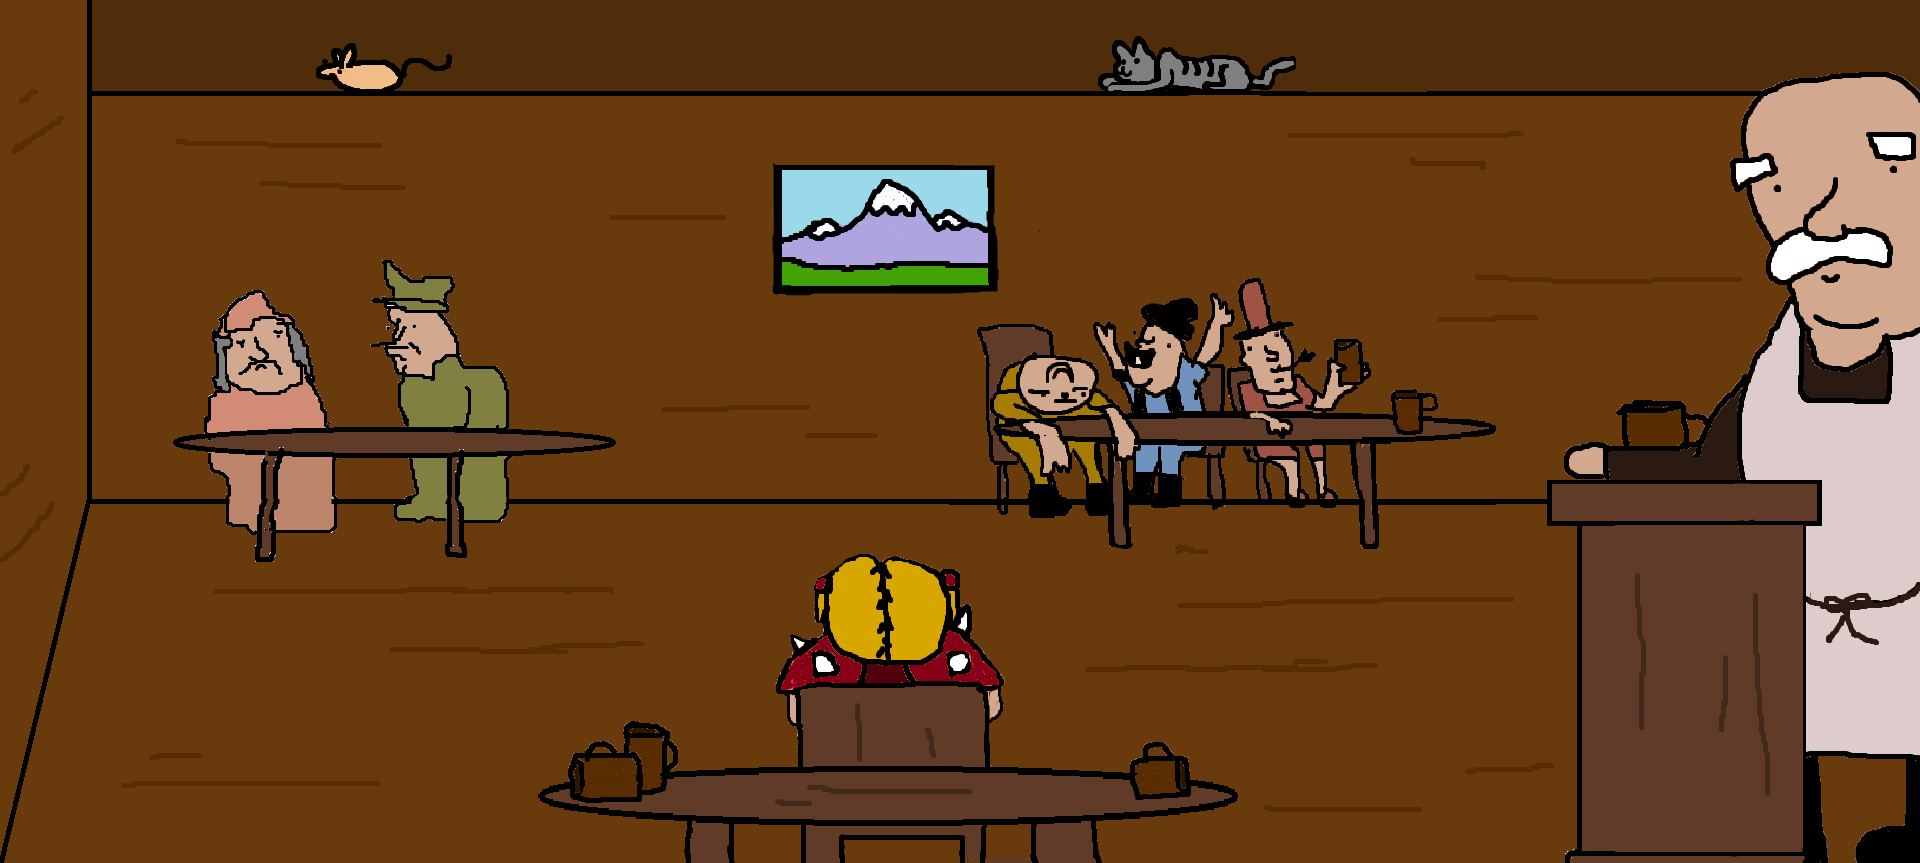
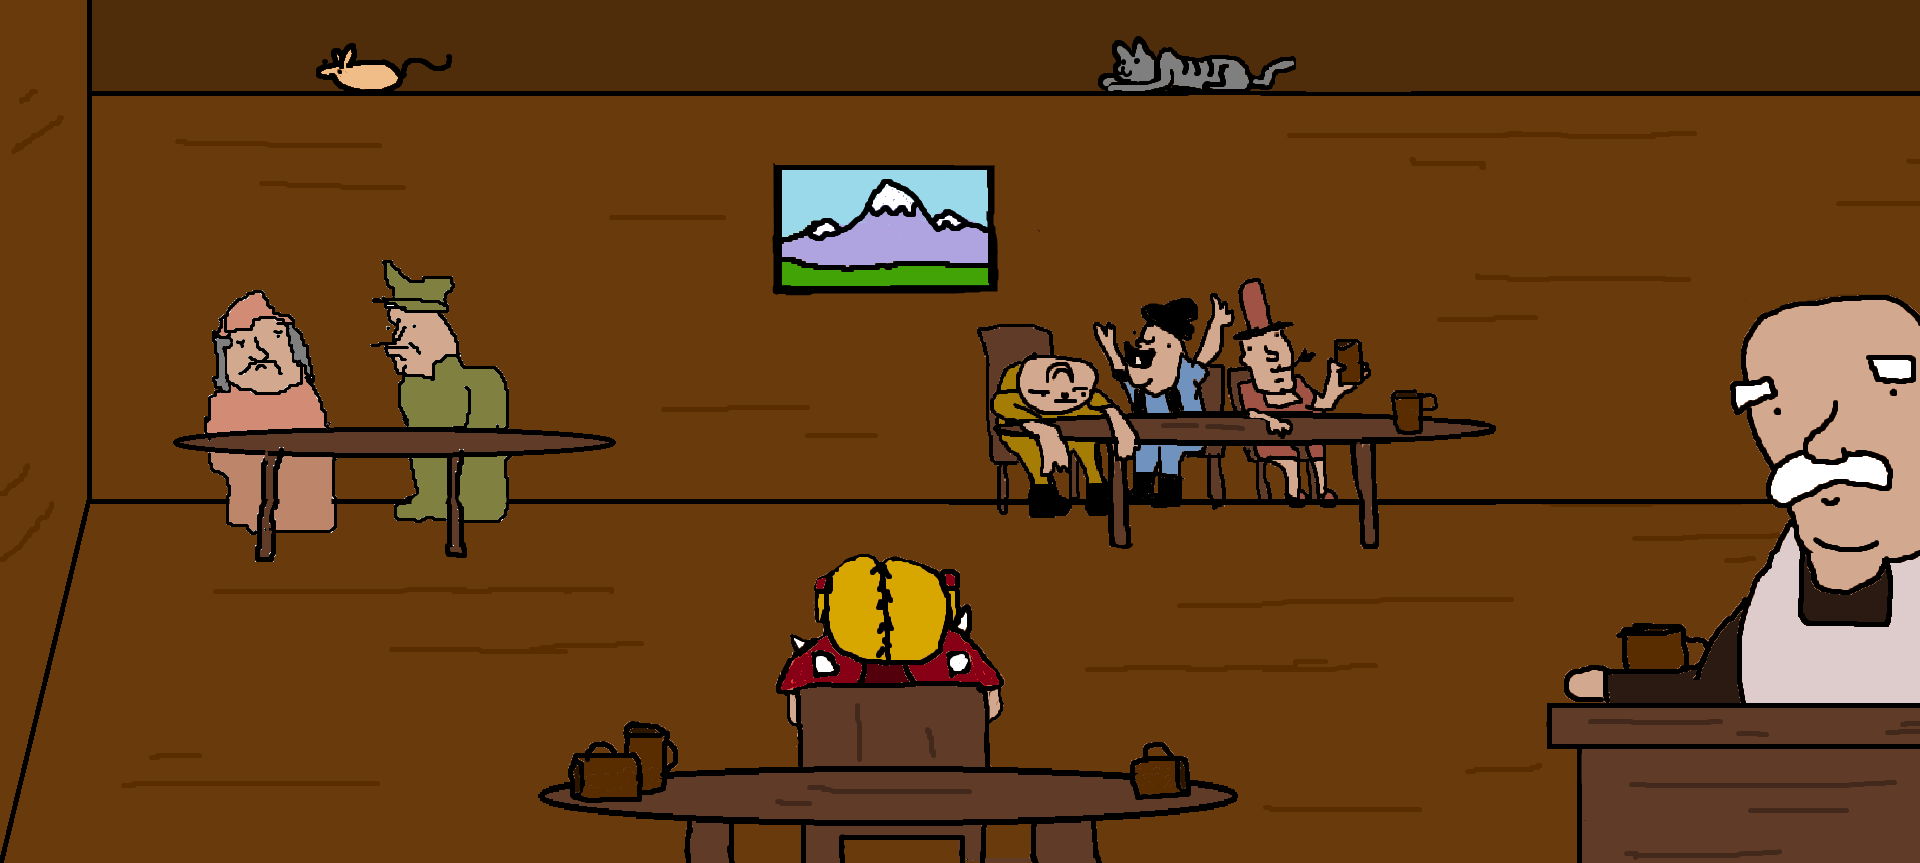
adjusted art and hitboxes; added cat and mouse

diff --git a/src/Components/Inn/Inn.jsx b/src/Components/Inn/Inn.jsx
@@ -30,6 +30,16 @@ const Inn = ({openLT, setOpenLT, ltText, setLTText, ltAvatar, setLTAvatar}) => {
         setLTText("Barkeep Swanson: Weird folk about. Strange things happening in our quiet town.")
     } 
 
+    const mouse = () => {
+        setOpenLT(true);
+        setLTText("Mouse: Eep!");
+    } 
+
+    const cat = () => {
+        setOpenLT(true);
+        setLTText("Cat: I liek memes :3");
+    } 
+
     const removeLT = () => {
         setOpenLT(false);
         setLTAvatar(null);
@@ -43,6 +53,8 @@ const Inn = ({openLT, setOpenLT, ltText, setLTText, ltAvatar, setLTAvatar}) => {
         <div className="hitbox farmers" onClick={farmers}></div>
         <div className="hitbox bronwyn" onClick={bronwyn}></div>
         <div className="hitbox barkeep" onClick={barkeep}></div>
+        <div className="hitbox mouse" onClick={mouse}></div>
+        <div className="hitbox cat" onClick={cat}></div>
         </>
     )
 }

diff --git a/src/Components/Inn/Inn.scss b/src/Components/Inn/Inn.scss
@@ -17,7 +17,7 @@ img {
 .mapa {
     height: 300px;
     width: 450px;
-    top: 280px;
+    top: 260px;
     left: 175px
 }
 
@@ -31,20 +31,27 @@ img {
 .bronwyn {
     height: 300px;
     width: 750px;
-    top: 550px;
-    left: 500px
-}
-
-.constable {
-    height: 400px;
-    width: 500px;
-    top: 400px;
-    left: 50px
+    top: 560px;
+    left: 525px
 }
 
 .barkeep {
-    height: 900px;
+    height: 600px;
     width: 400px;
-    top: 50px;
+    top: 275px;
     left: 1515px
+}
+
+.mouse {
+    height: 100px;
+    width: 150px;
+    top: 25px;
+    left: 300px
+}
+
+.cat {
+    height: 100px;
+    width: 200px;
+    top: 25px;
+    left: 1100px
 }
